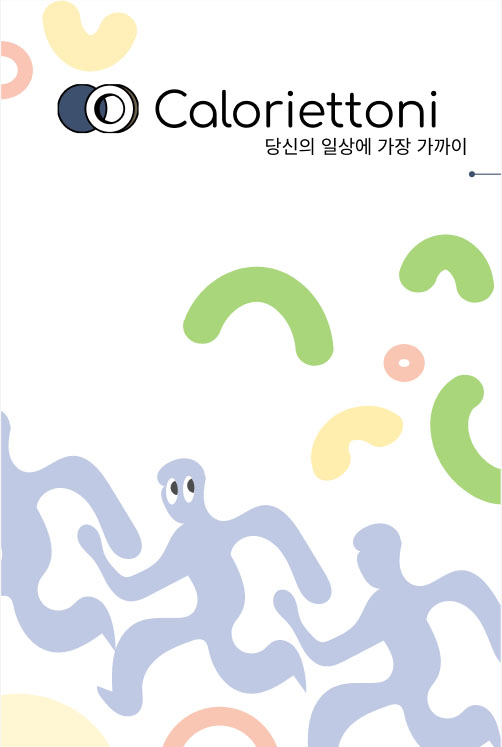
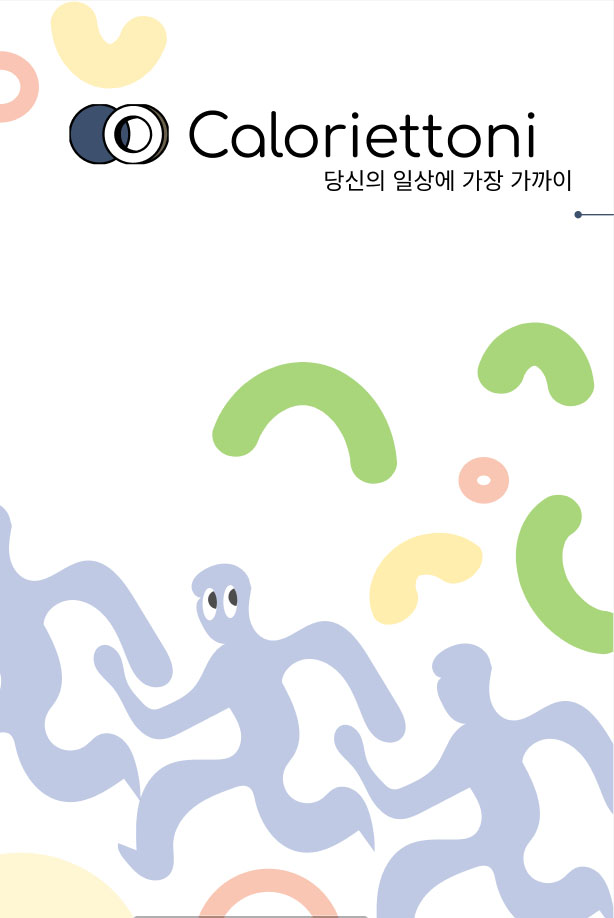
feat: Schedule 작업 중

diff --git a/src/style/ScheduleCss.js b/src/style/ScheduleCss.js
@@ -1,0 +1,60 @@
+import styled from "@emotion/styled";
+import Calendar from "react-calendar";
+
+export const CalendarWrap = styled.div`
+  h2 {
+    display: flex;
+    justify-content: center;
+    align-items: center;
+    color: whitesmoke;
+    font-size: 40px;
+    height: 100px;
+    background: lightblue;
+  }
+  div {
+    position: relative;
+    form {
+      z-index: 99999;
+      position: absolute;
+      top: -18px;
+      left: 25px;
+      input {
+        width: 450px;
+        height: 100px;
+      }
+    }
+  }
+`;
+
+export const CalendarSpace = styled.div`
+  width: 500px;
+  height: 60px;
+  background: lightblue;
+`;
+
+export const CalendarMain = styled(Calendar)`
+  font-family: "Noto Sans KR", sans-serif;
+  width: 500px;
+  height: 500px;
+  border: 1px solid lightgray;
+
+  .react-calendar__navigation {
+    background: lightblue;
+    height: 100px;
+    .react-calendar__navigation__label {
+      color: whitesmoke;
+      font-size: 20px;
+      font-family: "Noto Sans KR", sans-serif;
+    }
+    .react-calendar__navigation__next2-button {
+      display: none;
+    }
+    .react-calendar__navigation__prev2-button {
+      display: none;
+    }
+  }
+  .react-calendar__month-view__weekdays {
+    height: 50px;
+    align-items: center;
+  }
+`;

diff --git a/src/pages/Schedule.js b/src/pages/Schedule.js
@@ -1,7 +1,32 @@
-import React from "react";
+import React, { useState } from "react";
+import "react-calendar/dist/Calendar.css";
+import {
+  CalendarWrap,
+  CalendarMain,
+  CalendarSpace,
+} from "../style/ScheduleCss";
+import moment from "moment";
 
 const Schedule = () => {
-  return <div>Schedule</div>;
+  const [value, onChange] = useState(new Date());
+
+  return (
+    <CalendarWrap>
+      <h2>Calorittoni</h2>
+      <div>
+        <form>
+          <input type="text"></input>
+        </form>
+      </div>
+      <CalendarSpace></CalendarSpace>
+      <CalendarMain
+        onChange={onChange}
+        value={value}
+        calendarType="US"
+        formatDay={(locale, date) => moment(date).format("D")}
+      />
+    </CalendarWrap>
+  );
 };
 
 export default Schedule;

diff --git a/src/pages/List.js b/src/pages/List.js
@@ -1,7 +1,27 @@
 import React from "react";
+import { ListDietWrap, ListWrap } from "../style/ListCss";
+import { Link } from "react-router-dom";
+import { FontAwesomeIcon } from "@fortawesome/react-fontawesome";
+import { faTrashCan } from "@fortawesome/free-regular-svg-icons";
 
 const List = () => {
-  return <div>List</div>;
+  return (
+    <ListWrap>
+      <div></div>
+      <h2>식단 기록</h2>
+      <ListDietWrap>
+        <div>
+          <Link to="/diet">이미지</Link>하 어렵네 어려워
+        </div>
+      </ListDietWrap>
+      <h2>운동 기록</h2>
+      <div>
+        <Link to="/health"></Link>
+      </div>
+
+      <FontAwesomeIcon icon={faTrashCan} />
+    </ListWrap>
+  );
 };
 
 export default List;

diff --git a/src/pages/Intro.js b/src/pages/Intro.js
@@ -1,20 +1,14 @@
 import React from "react";
 import { Link } from "react-router-dom";
+import { IntroWrap } from "../style/IntroCss";
 
 const Intro = () => {
   return (
-    <div>
+    <IntroWrap>
       <Link to="/main">
-        <img
-          src="images/intro.jpg"
-          alt="intro"
-          style={{
-            width: "100%",
-            height: "900px",
-          }}
-        />
+        <img src="images/intro.jpg" alt="intro" />
       </Link>
-    </div>
+    </IntroWrap>
   );
 };
 

diff --git a/src/style/ListCss.js b/src/style/ListCss.js
@@ -1,0 +1,20 @@
+import styled from "@emotion/styled";
+
+export const ListWrap = styled.div``;
+
+export const ListDietWrap = styled.div`
+  position: relative;
+  width: 460px;
+  height: 120px;
+  border: 1px solid #000;
+  border-radius: 10px;
+  div {
+    position: absolute;
+    left: 10px;
+    top: 10px;
+    height: 100px;
+    width: 100px;
+    border: 1px solid #000;
+    border-radius: 10px;
+  }
+`;

diff --git a/src/App.js b/src/App.js
@@ -13,7 +13,7 @@ import Footer from "./components/Footer";
 function App() {
   return (
     <div>
-      <Routes>
+      <Routes>    
         <Route path="/" element={<Intro />}></Route>
         <Route path="/main" element={<Main />}></Route>
         <Route path="/diet" element={<Diet />}></Route>

diff --git a/src/style/IntroCss.js b/src/style/IntroCss.js
@@ -1,0 +1,8 @@
+import styled from "@emotion/styled";
+
+export const IntroWrap = styled.div`
+  img {
+    height: calc(100vh - 70px);
+    width: 100%;
+  }
+`;
